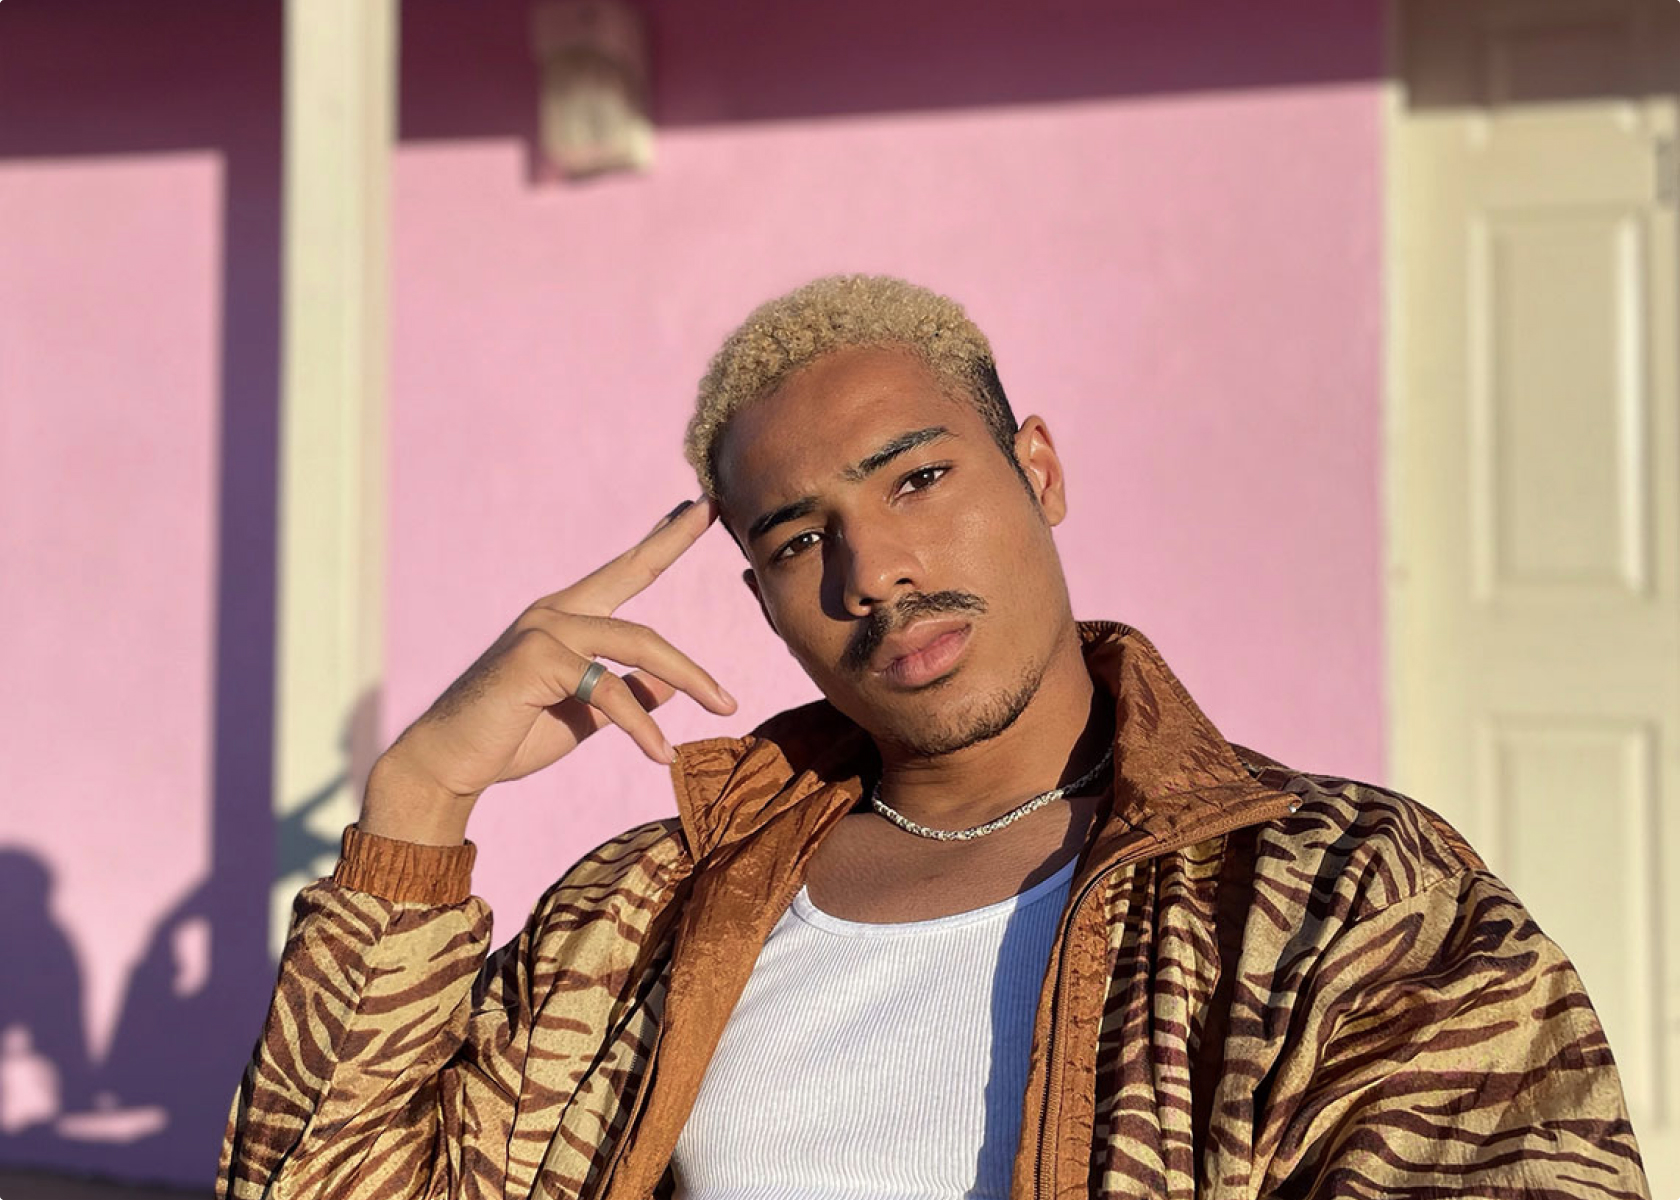
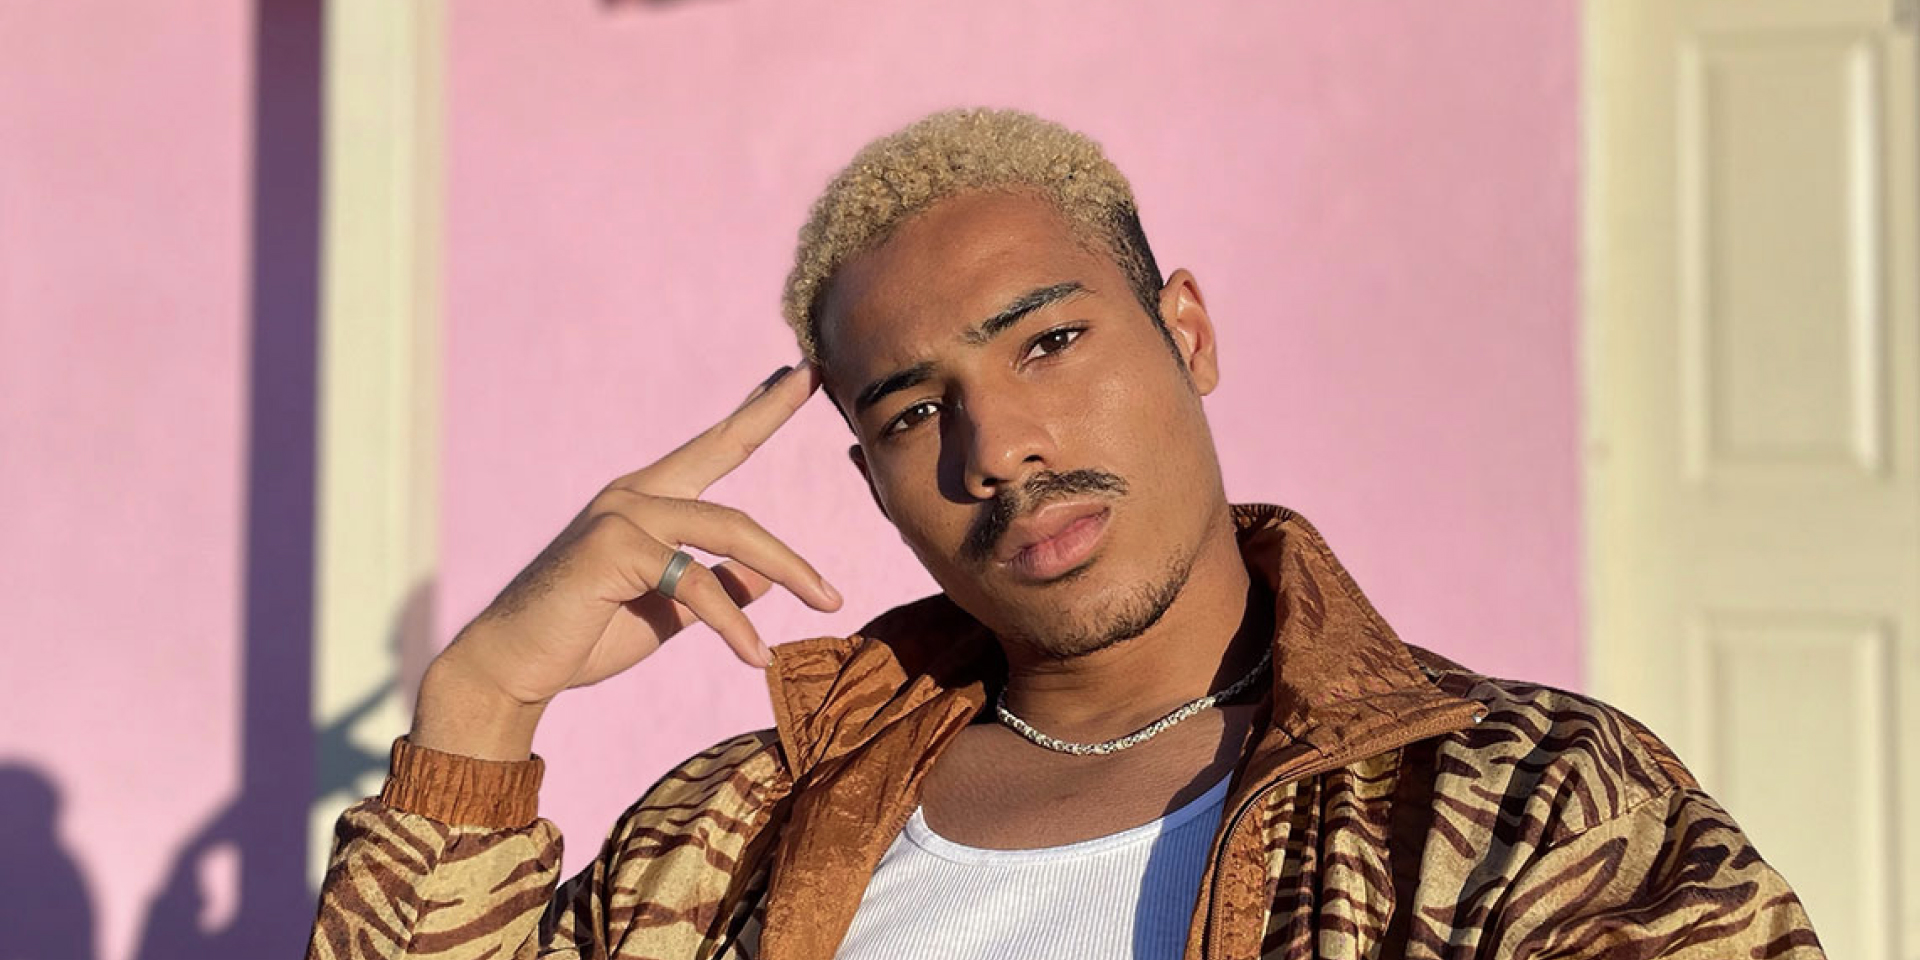
Scale image down from 1

diff --git a/mamba/zoomableThumbnailMobile.js b/mamba/zoomableThumbnailMobile.js
@@ -1,5 +1,5 @@
 import { useEffect, useRef, useState } from "react";
-import { OpenButton, calculateScale, Thumbnail } from "./index";
+import { OpenButton, calculateScale } from "./index";
 
 export function ZoomableThumbnailMobile(props) {
   const imageRef = useRef(null);
@@ -8,38 +8,53 @@ export function ZoomableThumbnailMobile(props) {
   const [currentX, updateCurrentX] = useState(0);
   const [currentScale, setCurrentScale] = useState(props.scale.initialMobile);
 
-  function handleZoom() {
-    setisZoomed(!isZoomed);
-    console.log("triggered");
-  }
-
   useEffect(() => {
     const screenHeight = window.innerHeight;
     const screenWidth = window.innerWidth;
-    const container = {
-      width: isZoomed ? screenWidth * 2 : props.smallWidth,
-      height: isZoomed ? screenHeight * 0.54 : props.smallHeight,
-    };
+    const thumbnailScale = screenHeight / 2 / props.height;
     const content = {
-      width: props.width,
-      height: props.height,
+      width: props.width * thumbnailScale,
+      height: props.height * thumbnailScale,
+    };
+    imageRef.current.width = content.width;
+    imageRef.current.height = content.height;
+
+    const container = {
+      width: isZoomed ? screenWidth * 1.5 : props.smallWidth,
+      height: isZoomed ? screenHeight * 0.5 : props.smallHeight,
     };
     const imageZoomY = imageRef.current.getBoundingClientRect().y;
     const imageX = imageRef.current.getBoundingClientRect().x;
 
     // Calculate scale
     const scale = calculateScale(container, content);
-    const imageZoomX = imageX - (screenWidth - content.width * scale) / 2;
+    const imageZoomX = imageX - (screenWidth - content.width) / 2;
 
     // Update values
     updateTranslateY(isZoomed ? -imageZoomY : 0);
     updateCurrentX(isZoomed ? -imageZoomX : 0);
-    setCurrentScale(scale);
+    setCurrentScale(isZoomed ? 1 : scale);
   }, [isZoomed]);
 
   useEffect(() => {
+    const screenHeight = window.innerHeight;
+    const screenWidth = window.innerWidth;
+    const thumbnailScale = screenHeight / 2 / props.height;
+    const content = {
+      width: props.width * thumbnailScale,
+      height: props.height * thumbnailScale,
+    };
+    imageRef.current.width = content.width;
+    imageRef.current.height = content.height;
+
+    const container = {
+      width: isZoomed ? screenWidth * 2 : props.smallWidth,
+      height: isZoomed ? screenHeight * 0.5 : props.smallHeight,
+    };
+    const scale = calculateScale(container, content);
     const dissmissModal = () => {
       setisZoomed(false);
+      setCurrentScale(isZoomed ? 1 : scale);
     };
     window.addEventListener("resize", dissmissModal);
     return () => window.removeEventListener("resize", dissmissModal);
@@ -53,14 +68,13 @@ export function ZoomableThumbnailMobile(props) {
 
   return (
     <>
-      <Thumbnail
+      <img
         ref={imageRef}
-        width={props.width}
-        height={props.height}
         src={props.image}
-        currentScale={currentScale}
-        isZoomed={isZoomed}
         style={{
+          transformOrigin: "0 0",
+          borderRadius: isZoomed ? 0 : 6,
+          transition: "transform 0.56s cubic-bezier(0.52, 0.16, 0.24, 1)",
           transform: `matrix(${currentScale}, 0, 0, ${currentScale}, ${currentX}, ${translateY})`,
         }}
       />
@@ -69,7 +83,7 @@ export function ZoomableThumbnailMobile(props) {
         ariaLabel='Open'
         type='button'
         isZoomed={isZoomed}
-        onClick={() => handleZoom()}
+        onClick={() => setisZoomed(!isZoomed)}
       ></OpenButton>
     </>
   );

diff --git a/data.js b/data.js
@@ -24,10 +24,10 @@ export const HelloWorld = {
     initial: 0.12526997840172785,
     target: 0.5,
   },
-  width: 1680,
-  height: 1200,
-  smallWidth: 126,
-  smallHeight: 90,
+  width: 1920,
+  height: 962,
+  smallWidth: 140,
+  smallHeight: 70,
   image: "images/hello-world.jpg",
 };
 

diff --git a/mamba/image.js b/mamba/image.js
@@ -4,8 +4,3 @@ export const Image = styled.img`
   transform-origin: center 0;
   transition: transform 0.56s cubic-bezier(0.52, 0.16, 0.24, 1);
 `;
-
-export const Thumbnail = styled.img`
-  transform-origin: 0 0;
-  transition: transform 0.56s cubic-bezier(0.52, 0.16, 0.24, 1);
-`;

diff --git a/mamba/articles.js b/mamba/articles.js
@@ -4,7 +4,7 @@ import { Caption, ZoomableThumbnailMobile } from "./index";
 const List = styled.ul``;
 const Item = styled.li`
   display: flex;
-  height: 90px;
+  height: 70px;
   position: relative;
 `;
 
